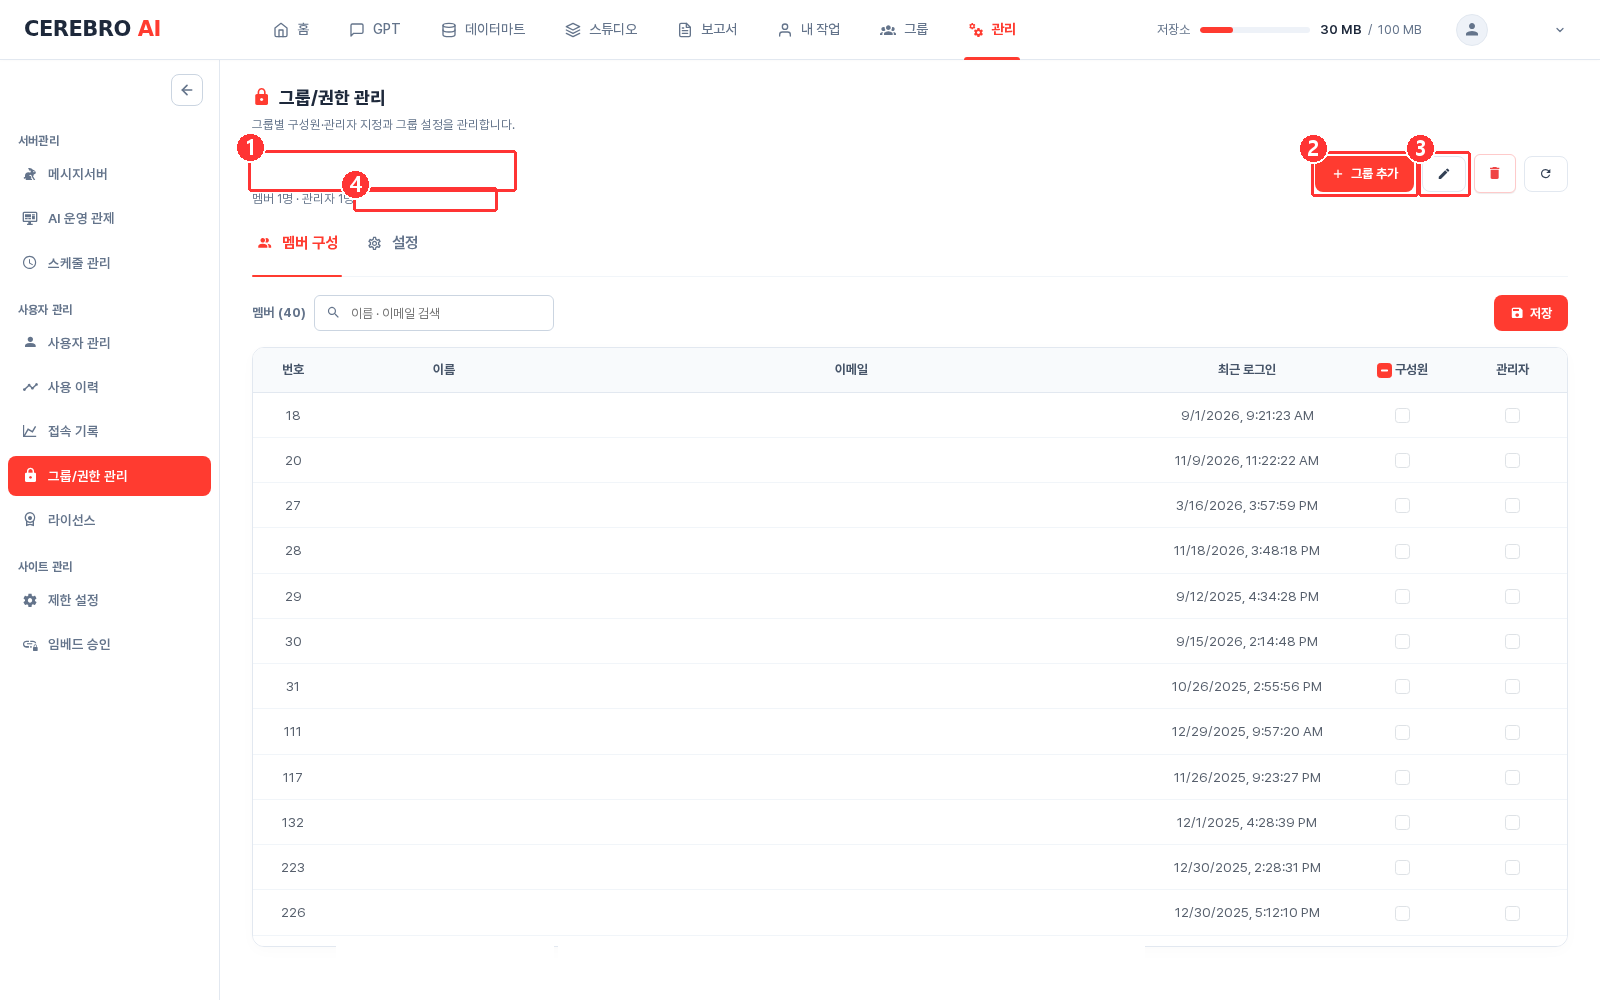
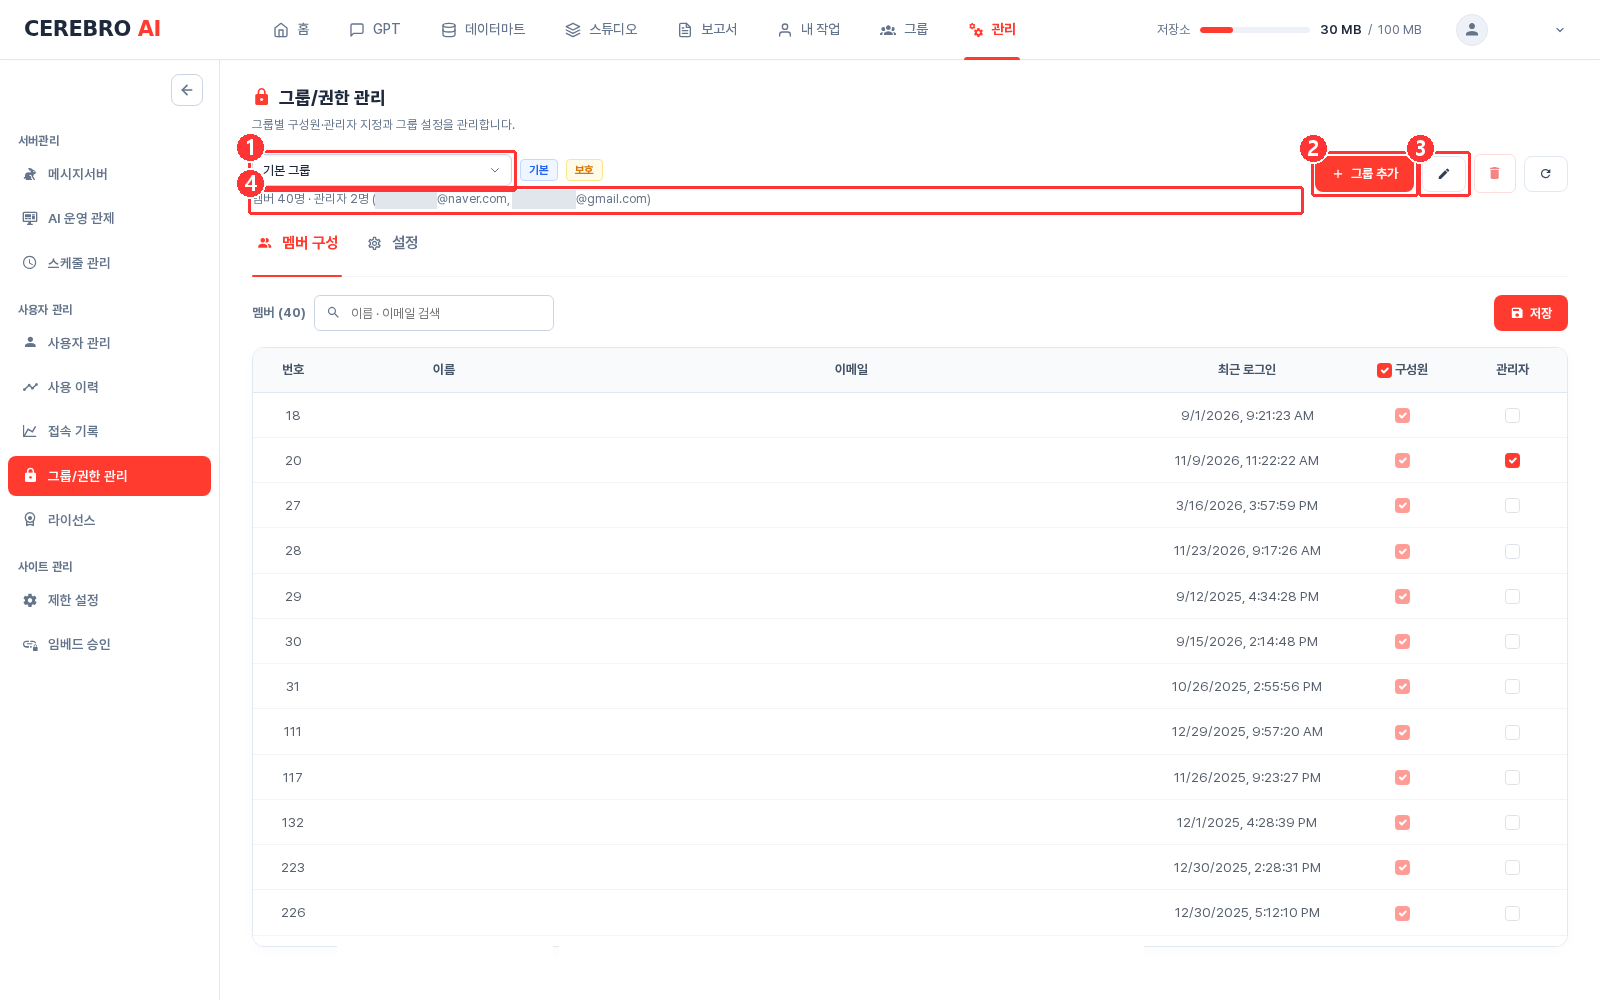
3.3.2 까지 수정완료

Changed region(s): [[0.1562, 0.155, 0.8125, 0.217], [0.75, 0.527, 0.8125, 0.558], [0.9375, 0.434, 0.9688, 0.465]]

diff --git a/CEREBRO_AI_OPERATOR_MANUAL_v0.1.2.md b/CEREBRO_AI_OPERATOR_MANUAL_v0.1.2.md
@@ -223,12 +223,12 @@
 5. **저장** 후 구성원과 관리자 지정 결과를 확인합니다.
 
 
-#### 2.4.3 그룹별 설정과 포털 그룹코드
+#### 2.4.3 그룹별 설정
 
 그룹마다 다른 기능·용량 한도를 적용하거나, 포털의 조직 구분과 그룹을 연계해야 할 때 사용합니다.
 
 <p align="center">
-  <img src="./Source/ADMIN/v0.1.2/2_4_3.png" alt="그룹별 설정과 포털 그룹코드 — 빨간 번호에 따라 화면 항목 확인" width="1100">
+  <img src="./Source/ADMIN/v0.1.2/2_4_3.png" alt="그룹별 설정 — 빨간 번호에 따라 화면 항목 확인" width="1100">
 </p>
 
 
@@ -300,7 +300,7 @@
 
 #### 3.1.2 대기 메시지 삭제
 
-불필요한 대기 메시지를 제거해야 하는 운영 상황에 사용하는 기능입니다. 일반적인 상태 점검이나 화면 확인을 위해 실행하는 버튼은 아닙니다.
+불필요한 대기 메시지를 제거해야 하는 운영 상황에 사용하는 기능입니다.
 
 <p align="center">
   <img src="./Source/ADMIN/v0.1.2/3_1_2.png" alt="대기 메시지 삭제 — 빨간 번호에 따라 화면 항목 확인" width="1100">
@@ -347,19 +347,18 @@
 
 **새로고침**으로 상태를 다시 조회할 수 있습니다. 응답 없음·경고·미사용 등 상태가 다르게 표시될 수 있으므로, 해당 구성 요소의 사용 여부와 안내 문구도 함께 확인합니다.
 
-#### 3.2.2 작업·모델·LLM 사용 이력
+#### 3.2.2 작업·모델 이력
 
 특정 분석이나 모델 학습, AI 요청의 처리 결과를 찾을 때 해당 탭을 선택합니다.
 
 <p align="center">
-  <img src="./Source/ADMIN/v0.1.2/3_2_2.png" alt="작업·모델·LLM 사용 이력 — 빨간 번호에 따라 화면 항목 확인" width="1100">
+  <img src="./Source/ADMIN/v0.1.2/3_2_2.png" alt="작업·모델 이력 — 빨간 번호에 따라 화면 항목 확인" width="1100">
 </p>
 
 | 탭 | 사용 상황 |
 |---|---|
 | 작업 이력 | 여러 유형의 작업을 조회하여 실행 상태와 진행률을 확인할 때 |
 | 모델 이력 | 모델 학습 관련 작업을 모아 확인할 때 |
-| LLM 사용 이력 | AI 대화 등 LLM 요청과 관련된 작업을 확인할 때 |
 | 감사 로그 | 사용자나 운영 기능의 수행 기록을 확인할 때 |
 
 1. 확인할 탭을 선택합니다.
@@ -442,19 +441,9 @@
 2. 현재 **상태**를 확인하여 정상 실행 중인지 정지 상태인지 구분합니다.
 3. 해당 행의 **관리** 영역에서 제공되는 정지·재개·삭제 버튼을 확인하고 필요한 기능을 선택합니다.
 
-| 버튼 | 기능 |
-|---|---|
-| 정지 | 대상 예약의 실행을 정지 상태로 전환합니다. |
-| 재개 | 정지된 예약을 다시 실행 가능한 상태로 전환합니다. |
-| 삭제 | 대상 예약을 제거합니다. |
+시스템 예약은 일반 예약과 구분되며 같은 제어 버튼이 제공되지 않습니다.  
+  
 
-시스템 예약은 일반 예약과 구분되며 같은 제어 버튼이 제공되지 않습니다. 개별 갱신 조건을 변경하려면 해당 자료의 갱신일정 화면도 확인합니다.
-
-<!-- [확인 필요 OP-08]
-표시 시각의 기준 시간대, 정지 시 이미 실행 중인 작업에 미치는 영향,
-재개 시 누락된 실행분의 처리 방식과 삭제 후 재등록 절차를 확인해 주세요.
-정지·재개·삭제는 실행하지 않았습니다.
--->
 
 ## 4. 사이트관리
 
